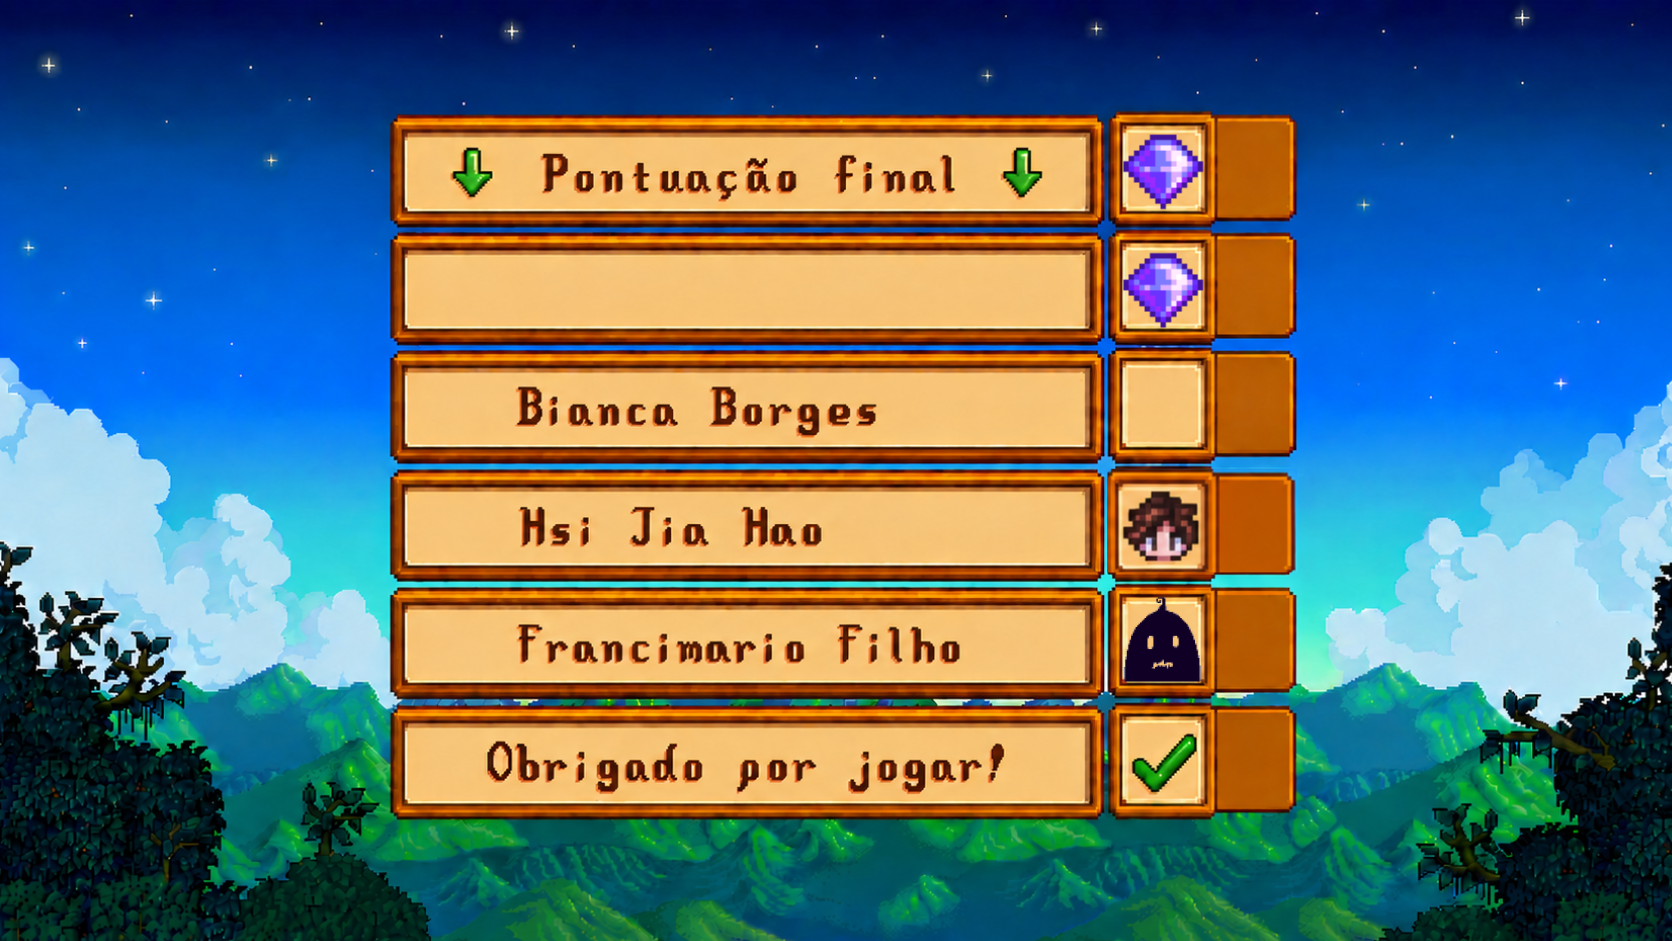
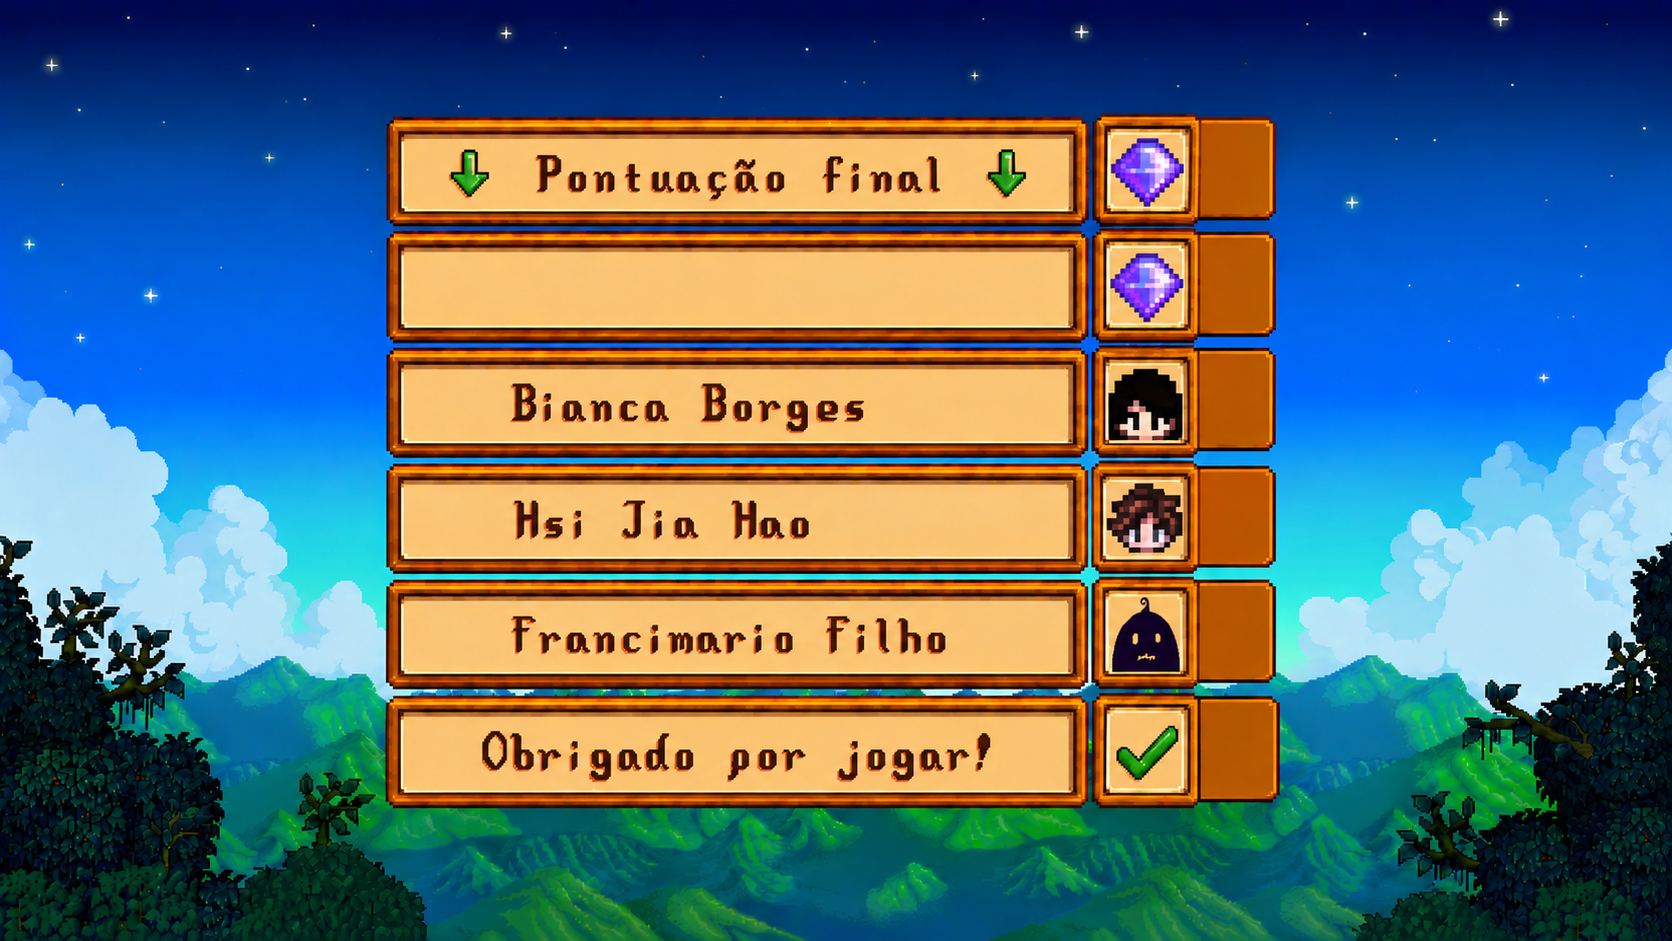
icone e centralzar div

diff --git a/fim.c b/fim.c
@@ -4,7 +4,7 @@
 void desenharFim(Texture2D *fim, Vector2 mouse, int *jogo_iniciado,  int *tela, Sound *somFim, Gema matriz[TAM][TAM], int *pontuacao) 
 {
     
-    Rectangle botaoFim = {836, 547, 75, 75};
+    Rectangle botaoFim = {824, 540, 75, 75};
 
     DrawTexturePro
         (
